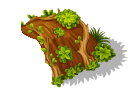
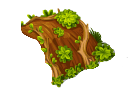
- some minor asset changes - overlay on meng is always added and removed as meng is spawned

Changed region(s): [[0.4688, 0.2812, 1.0, 0.9062]]

diff --git a/Whack_A_Meng/lib/src/Hole.dart b/Whack_A_Meng/lib/src/Hole.dart
@@ -8,6 +8,7 @@ class Hole extends Sprite {
   BitmapData _awesome;
   BitmapData _great;
   
+  Sprite _overlay;
   Sprite _meng;
   
   bool _isActive = false;
@@ -18,10 +19,9 @@ class Hole extends Sprite {
     
     addChild(background);
     
-    Sprite overlay = new Sprite()
+    _overlay = new Sprite()
         ..addChild(foreground)
-        ..mouseEnabled = false;            
-    addChild(overlay);
+        ..mouseEnabled = false;
             
     _whack = _resourceManager.getBitmapData("whack");
     _awesome = _resourceManager.getBitmapData("awesome");
@@ -48,12 +48,25 @@ class Hole extends Sprite {
   
   _onEnterFrame(EnterFrameEvent evt) {
     if (!_isActive && _random.nextInt(100) < 1) {
-      addChildAt(_meng, 1);
+      addChild(_meng);
+      addChild(_overlay);
+      
       var tween = new Tween(_meng, 0.5)
         ..animate.x.to(-15);
-      stage.juggler.add(tween);
+      stage.juggler.add(tween);          
       
-      _isActive = true;      
+      _isActive = true;
+      
+      new Timer(new Duration(seconds : 2), () {
+        var tween = new Tween(_meng, 0.2)
+          ..animate.x.to(5)
+          ..onComplete = () {
+            removeChild(_meng);
+            removeChild(_overlay);
+            _isActive = false;
+          };
+        stage.juggler.add(tween);
+      });
     }
   }
 }
